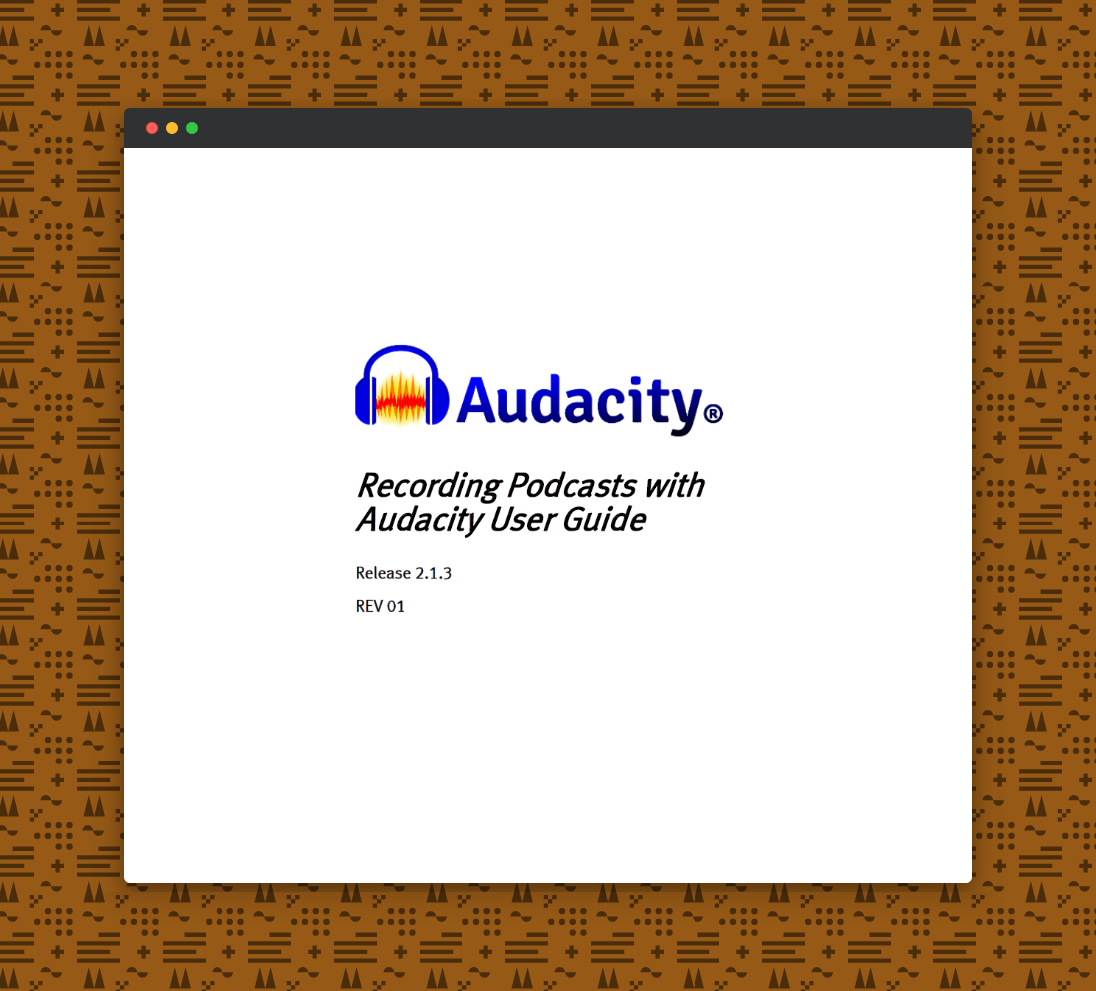
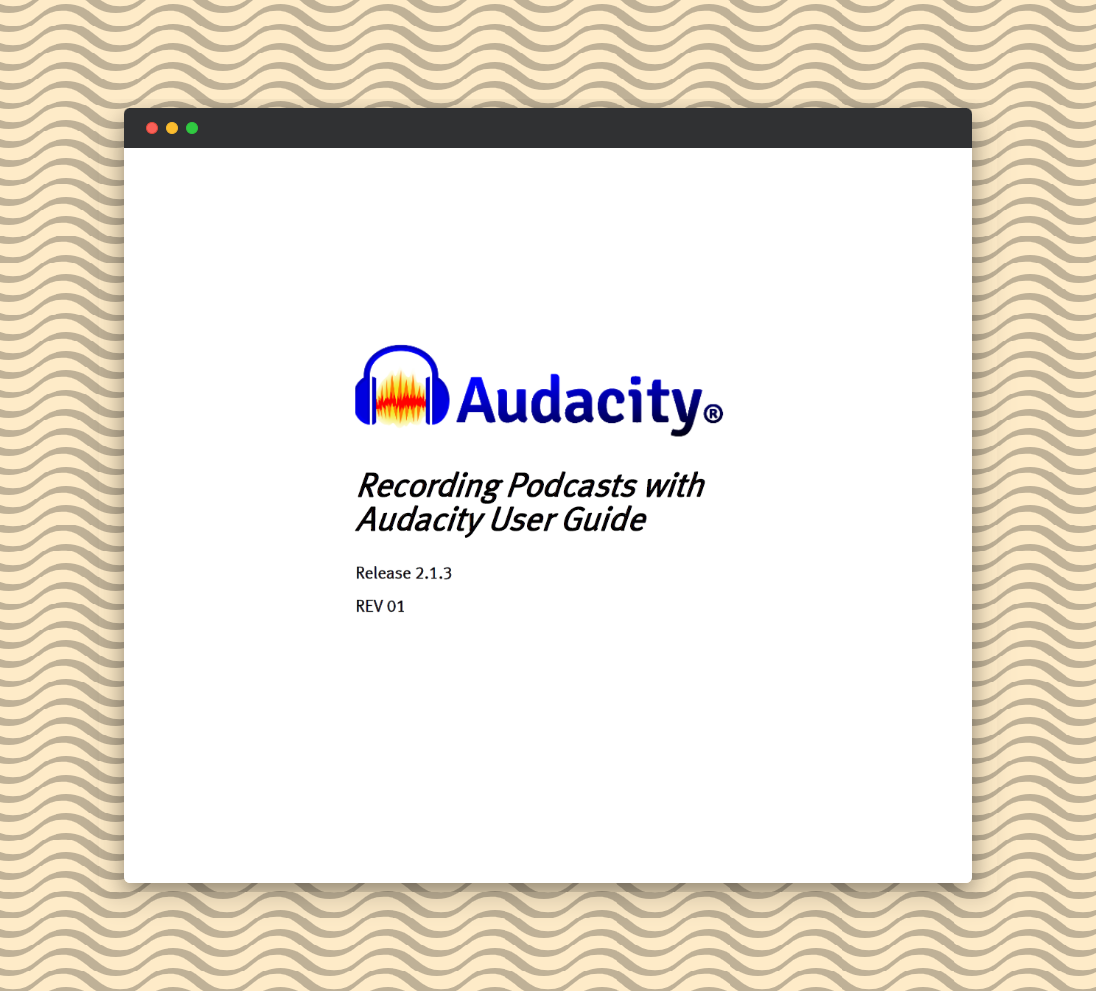
Adding show/hide buttons for older resume items; updating image for user guide

diff --git a/js/custom.js b/js/custom.js
@@ -52,3 +52,21 @@ thirdbutton.onclick = function(){
   projectsbutton.style.marginLeft = '0px';
 };
 });
+
+function showmore() {
+  var extraexperience = document.getElementById("extra-experience");
+  var hidebtn = document.getElementById("hide");
+  var showbtn = document.getElementById("show");
+  extraexperience.style.display = 'inline-block';
+  hidebtn.style.display = 'inline-block';
+  showbtn.style.display = 'none';
+}
+
+function showless() {
+  var extraexperience = document.getElementById("extra-experience");
+  var hidebtn = document.getElementById("hide");
+  var showbtn = document.getElementById("show");
+  extraexperience.style.display = 'none';
+  showbtn.style.display = 'inline-block';
+  hidebtn.style.display = 'none';
+}

diff --git a/css/custom.css b/css/custom.css
@@ -152,3 +152,7 @@ margin-bottom: 7px;
         opacity: 0;
     }
 }
+
+.nodisplay {
+   display: none;
+}

diff --git a/_pages/resume.md b/_pages/resume.md
@@ -102,7 +102,9 @@ featured_image:
       </div>
    </div>
 </div>
-<div id="extra-experience">
+<a id="show" onclick="showmore()" href="#">Read more</a>
+<a id="hide" onclick="showless()" class="nodisplay" href="#">Read less</a>
+<div id="extra-experience" class="nodisplay">
 <h3>LawyersOrme</h3>
 <p style="margin-bottom: 15px;" class="date">Jun 2014–Jul 2015</p>
 <div class="timeline-container">
